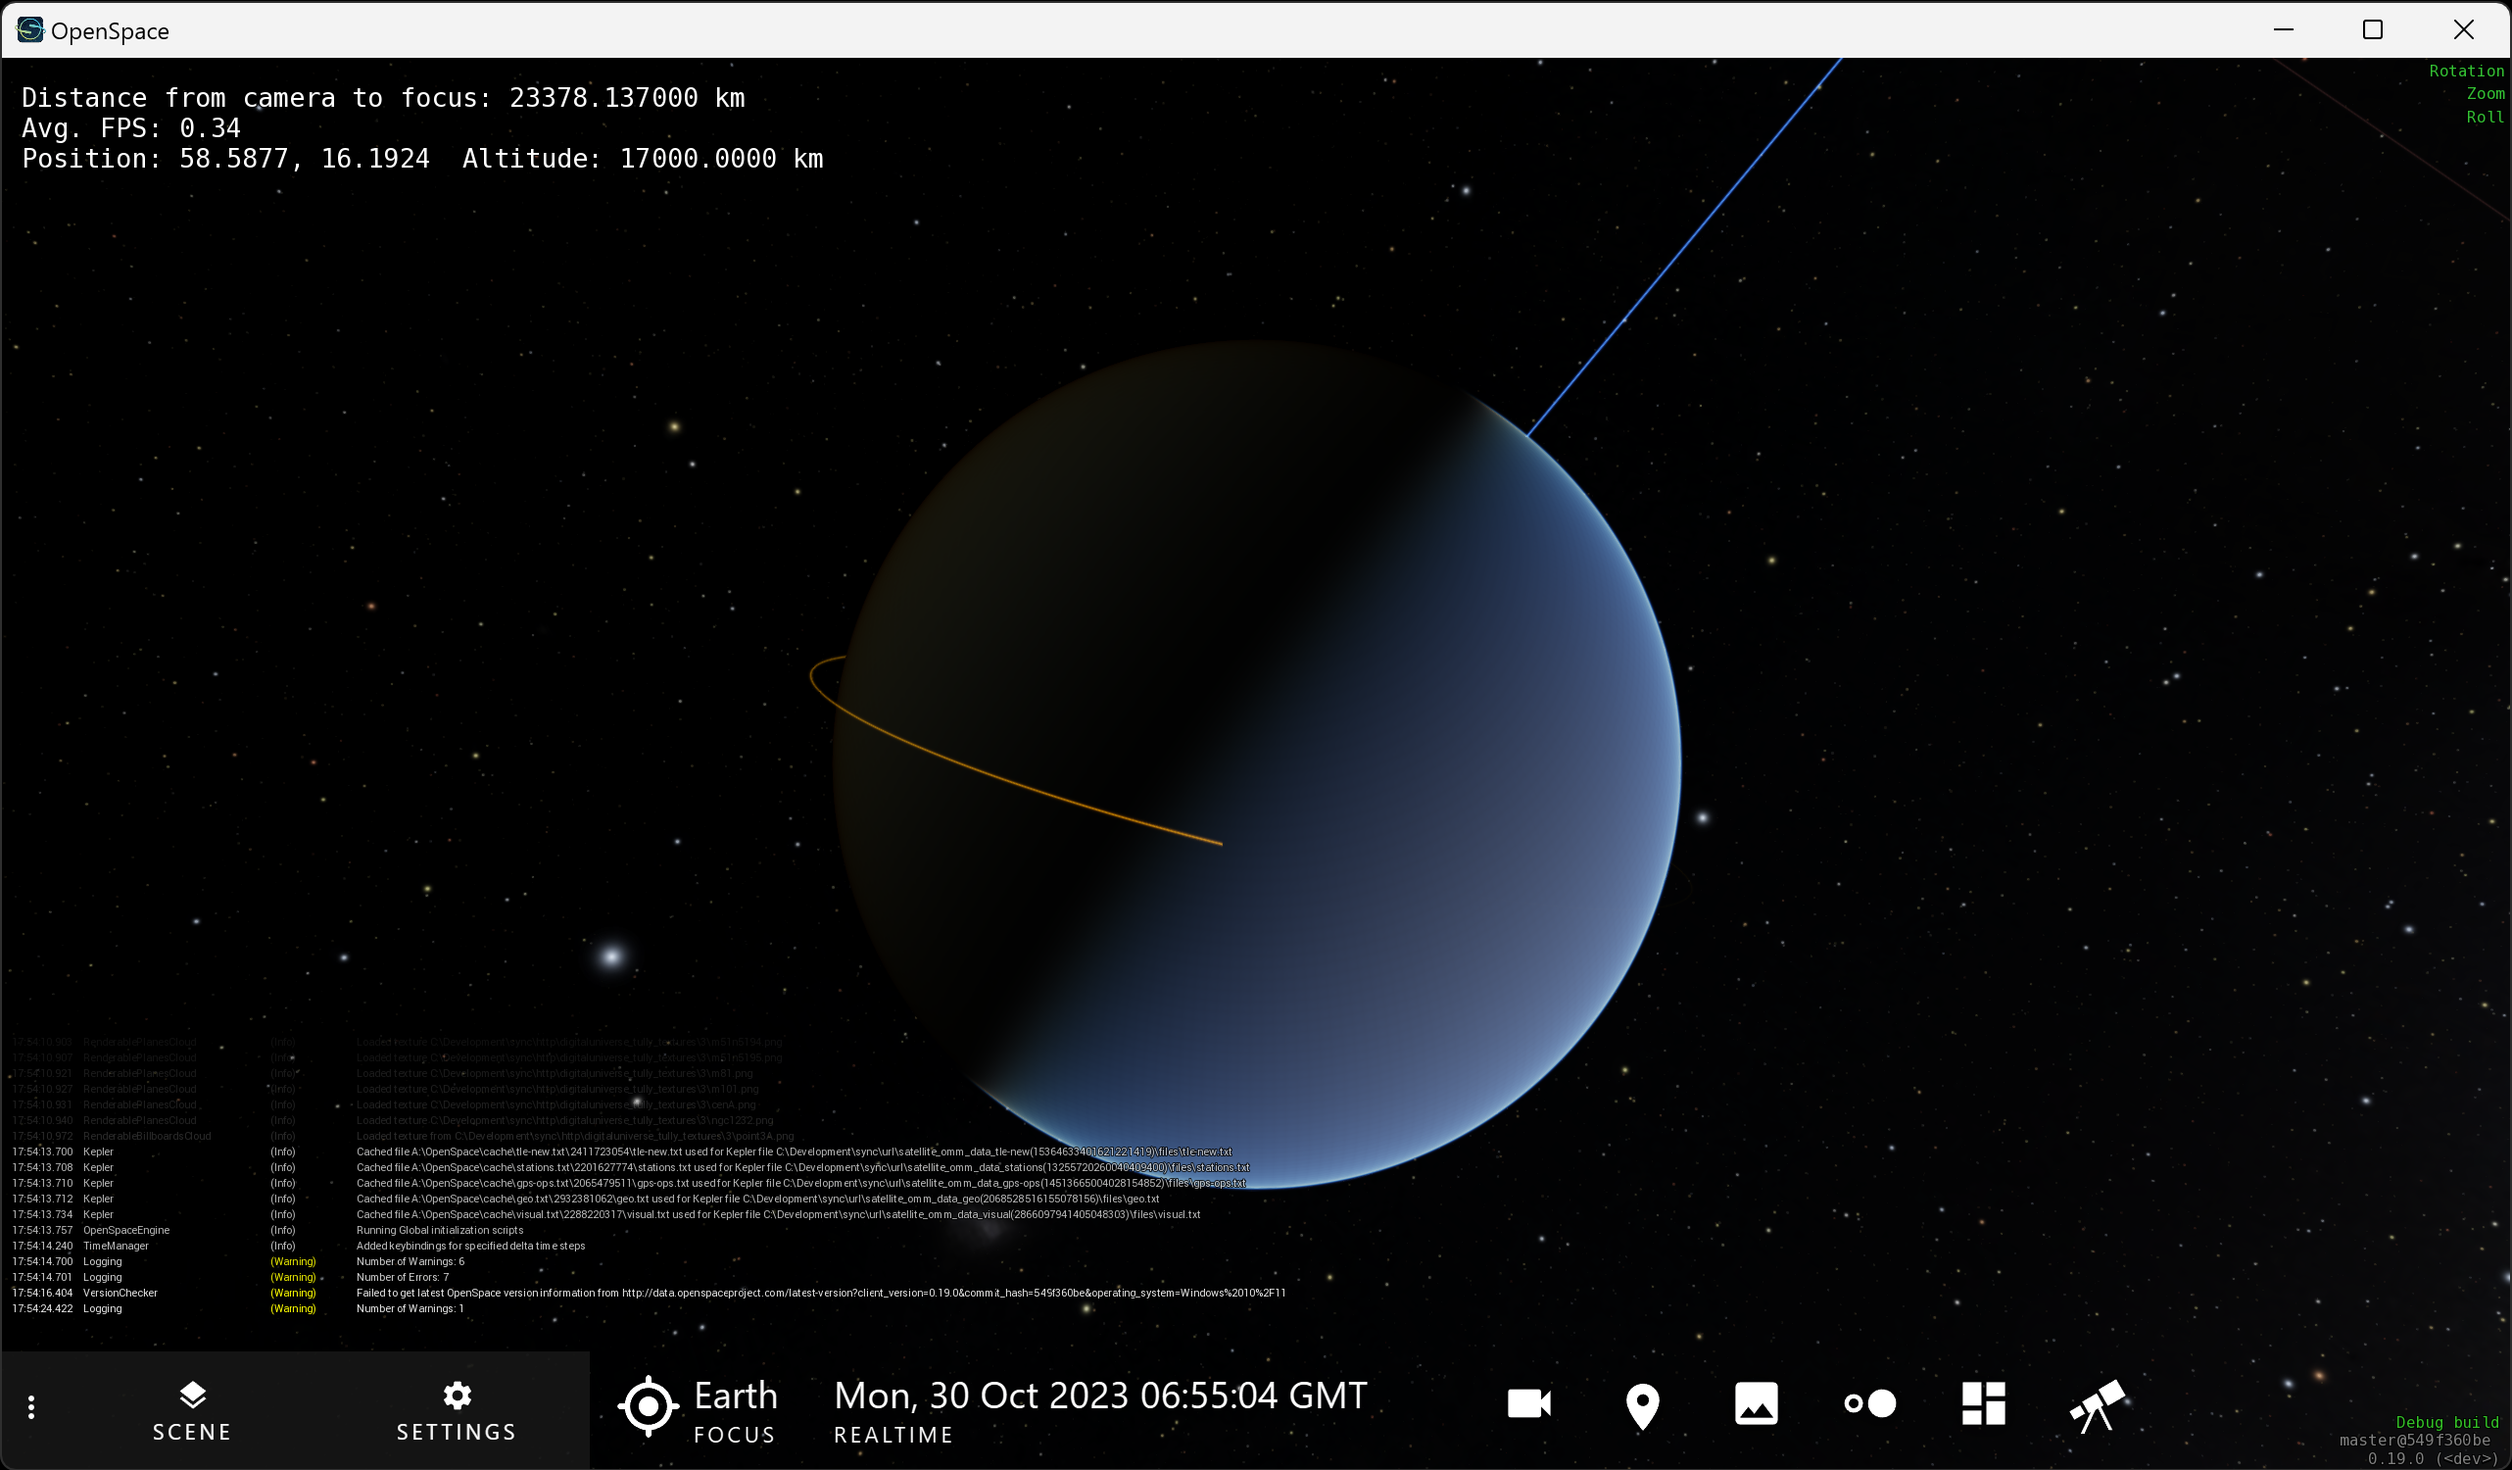
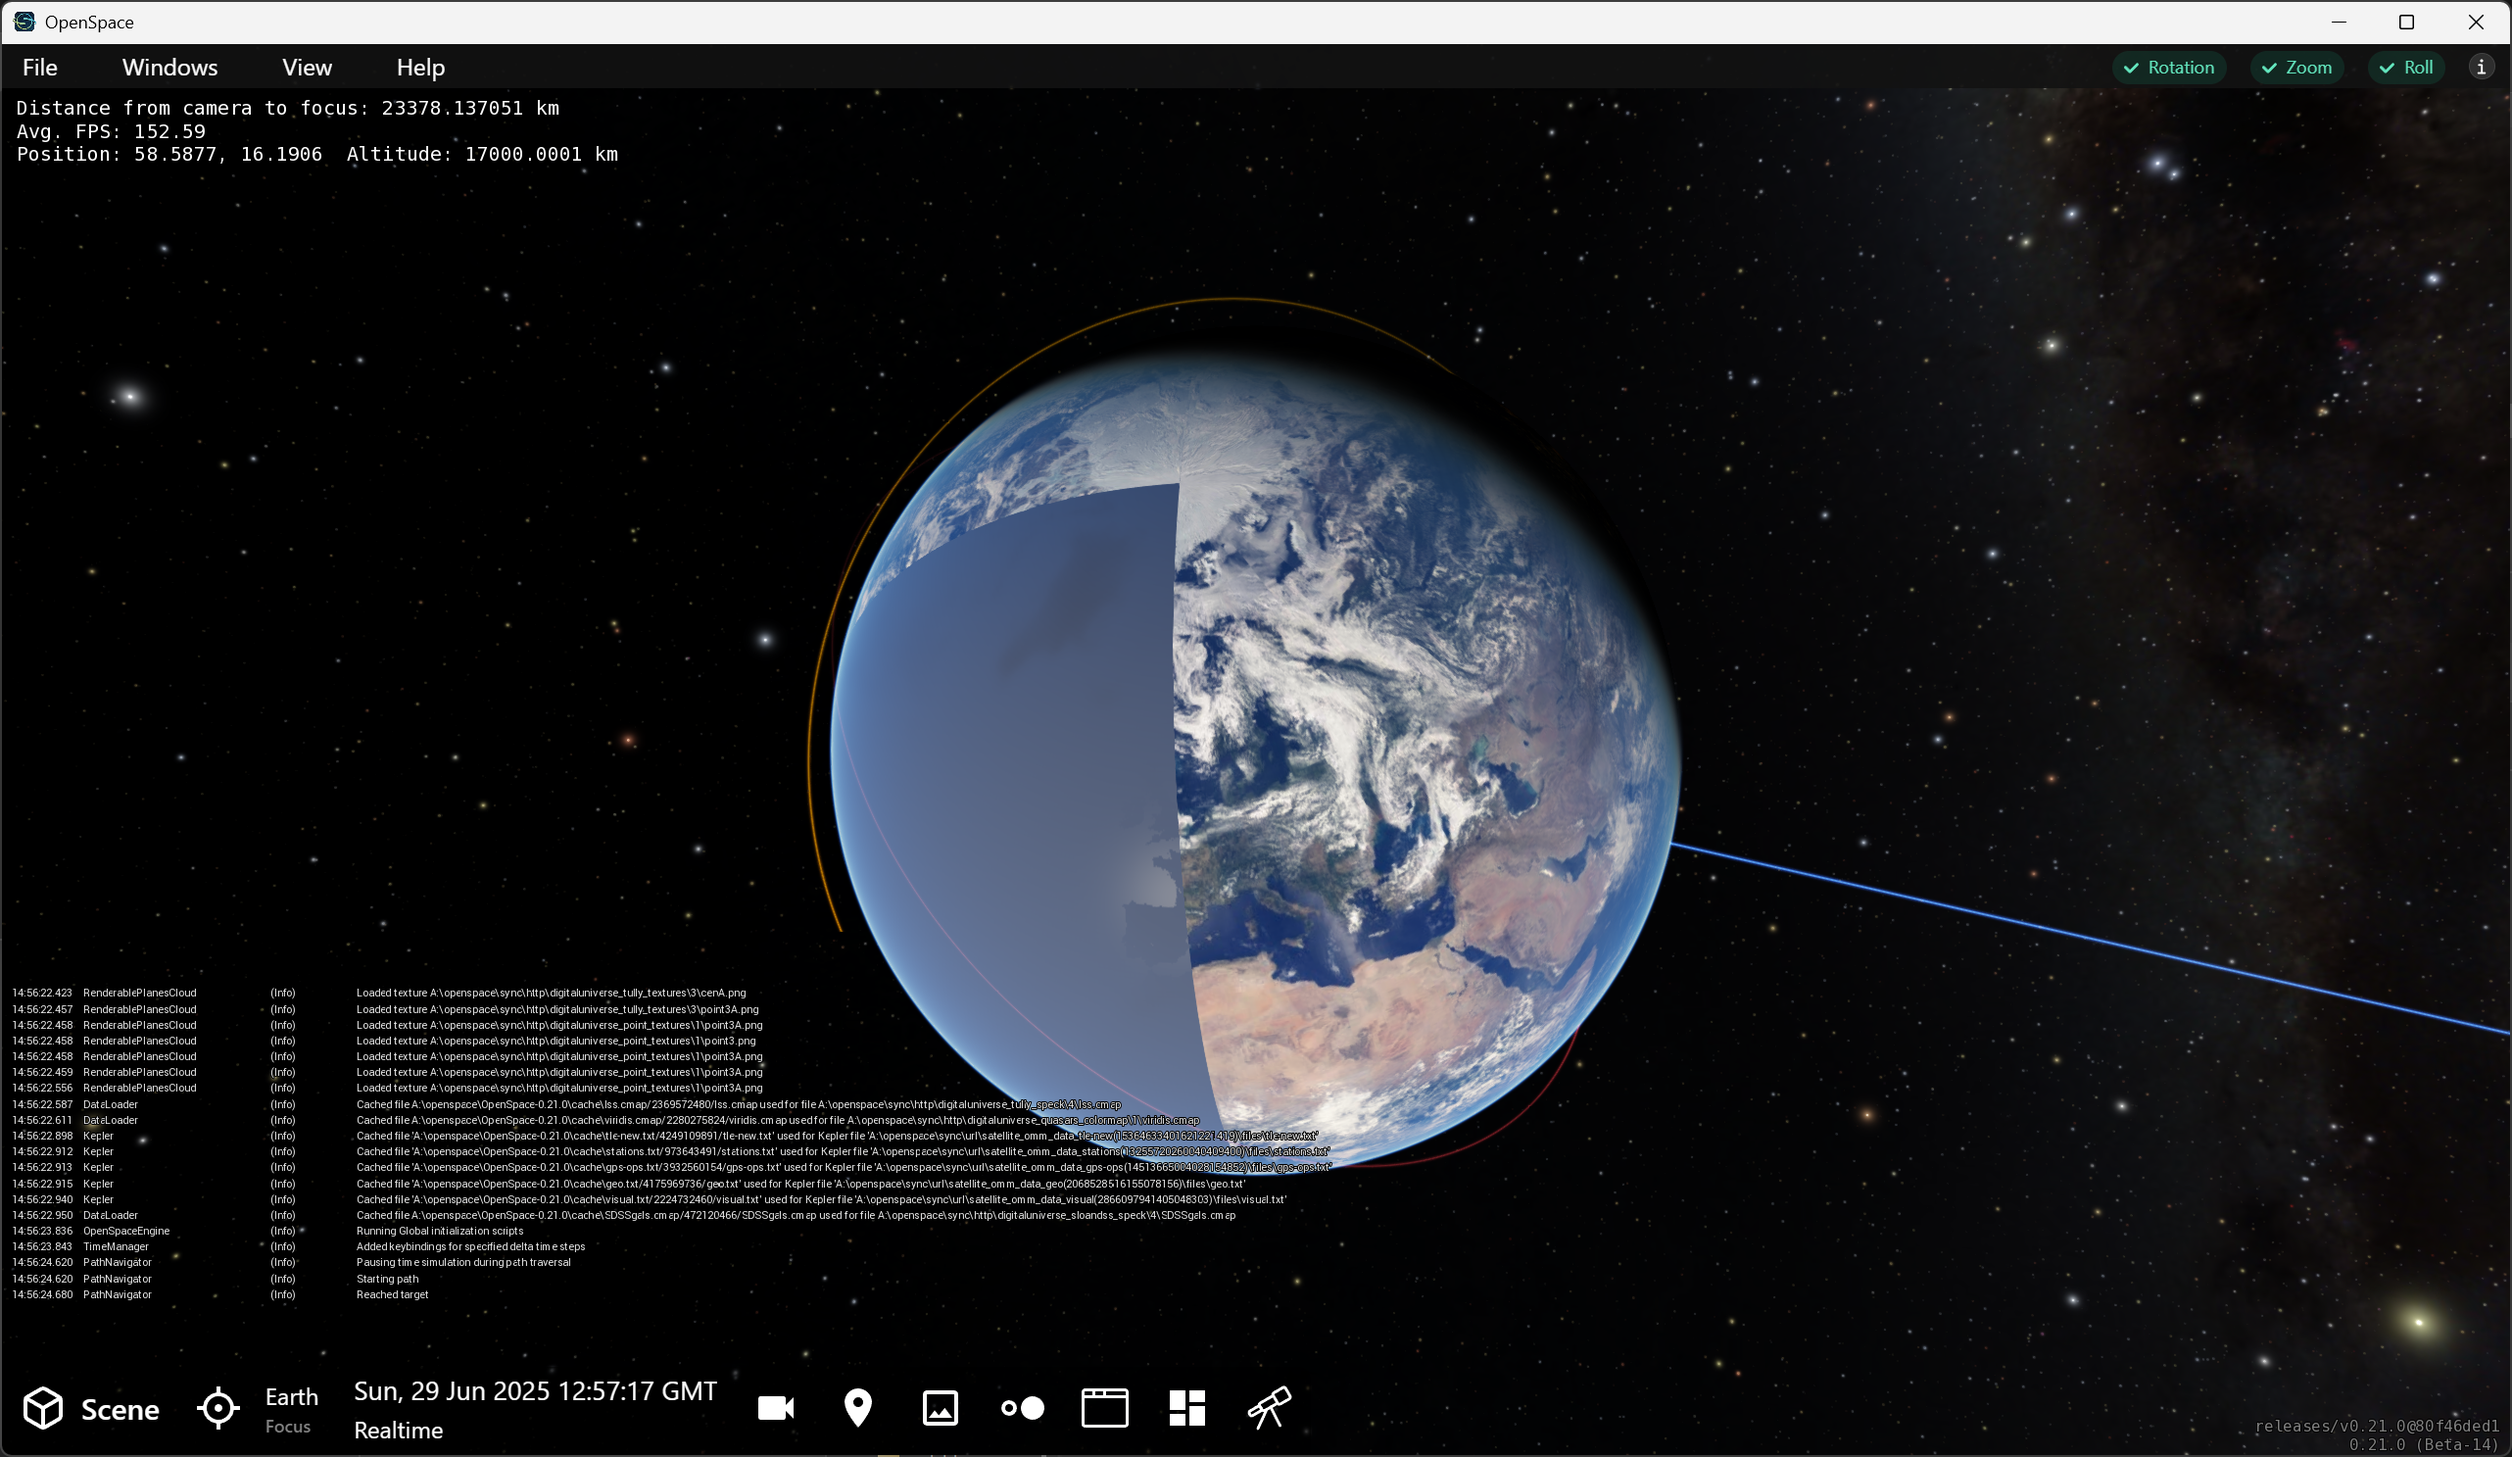
Update getting-started/navigation images to new UI

diff --git a/getting-started/navigation/index.md b/getting-started/navigation/index.md
@@ -233,7 +233,7 @@ From this position and view, Zoom, using the {kbd}`right mouse button`, will now
 :width: 100%
 :alt: Inside Valles Marineris
 
-Inside Valles Marineris, you can see the Altitude in the Dashboard says -198 km. This is because we are below the normal altitude of Mars---what would be considered their sea level had all their seas not evaporated away billions of years ago.
+Inside Valles Marineris, you can see the Altitude in the Dashboard says -198 m. This is because we are below the normal altitude of Mars---what would be considered their sea level had all their seas not evaporated away billions of years ago.
 :::
 
 From a position just above the canyon, you can now explore it using the {kbd}`left mouse button` in Rotation Mode. This will give you the sense of flying right above the surface, like a plane. Use the four directions and go where you want to explore. Flying forward in this scenario works well.
